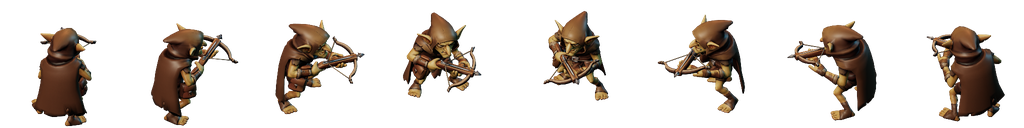
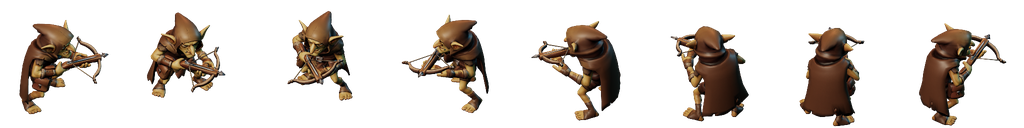
Guld är enda spärren, korten sorteras på pris, och banditen tittar framåt
Tidslåsen är borta. De hindrade en spelare som sparat ihop till något
dyrare, vilket är precis det beteende ekonomin ska belöna — och en creep
för femtontusen är ändå ouppnåelig tidigt, eftersom man börjar på
femhundra. unlockMin finns kvar i speldatan eftersom tierHp använder den
för att skala HP, men den styr inte längre vad man får skicka.

Korten sorteras nu på pris. Ordningen kom förut ur i vilken ordning
creepsen skrevs in, så BANDIT på 350 låg efter DRAKE på 5000 — och i en rad
man scrollar är priset det enda man jämför på.

Banditens modell står vriden ett kvarts varv i sin egen fil, så hela
riktningsarket pekade fel: rakt fram såg han ut att gå i sidled, och i
svängen såg han rätt ut. Utbakaren tar nu ett yawOffset som rätar upp
modellen innan de åtta vyerna renderas, och banditens ark är omgjort.

diff --git a/public/js/config.js b/public/js/config.js
@@ -459,7 +459,10 @@ export const CREEPS = {
   },
 };
 
-export const CREEP_KEYS = Object.keys(CREEPS);
+/* Sorterade efter pris. Ordningen kom tidigare ur i vilken ordning de
+   skrevs in, så BANDIT på 350 låg efter DRAKE på 5000 — och i en rad man
+   scrollar är priset det enda man jämför på. */
+export const CREEP_KEYS = Object.keys(CREEPS).sort((a, b) => CREEPS[a].cost - CREEPS[b].cost);
 
 /* Både income och bounty räknas ur kostnaden. Handskrivna heltal glider vid
    avrundning — FÅR hamnade på 5 % i stället för 7 % — och då slutar
@@ -471,7 +474,11 @@ export const creepIncome = key => CREEPS[key].cost * ECON.incomeRate;
 export const creepBounty = key => CREEPS[key].cost * ECON.bountyRate;
 /* Tier låses upp på matchtid, inte på inkomst — då kommer trappan i samma
    takt för båda spelarna oavsett hur de spelat. */
-export const creepUnlocked = (key, seconds) => seconds >= (CREEPS[key].unlockMin || 0) * 60;
+/* Guldet är enda spärren. Tidslåsen begränsade en spelare som sparat ihop
+   till något dyrare, vilket är precis det beteende ekonomin ska belöna.
+   unlockMin finns kvar i speldatan eftersom tierHp använder den för att
+   skala HP — men den styr inte längre vad man får skicka. */
+export const creepUnlocked = () => true;
 export const sendUpCost = (key, lv) => ECON.sendUpCost(CREEPS[key].cost, lv);
 export const sendHpMul = lv => Math.pow(1 + ECON.sendUpHp, lv);
 export const waveHpMul = wave => Math.pow(ECON.waveHp, wave);
